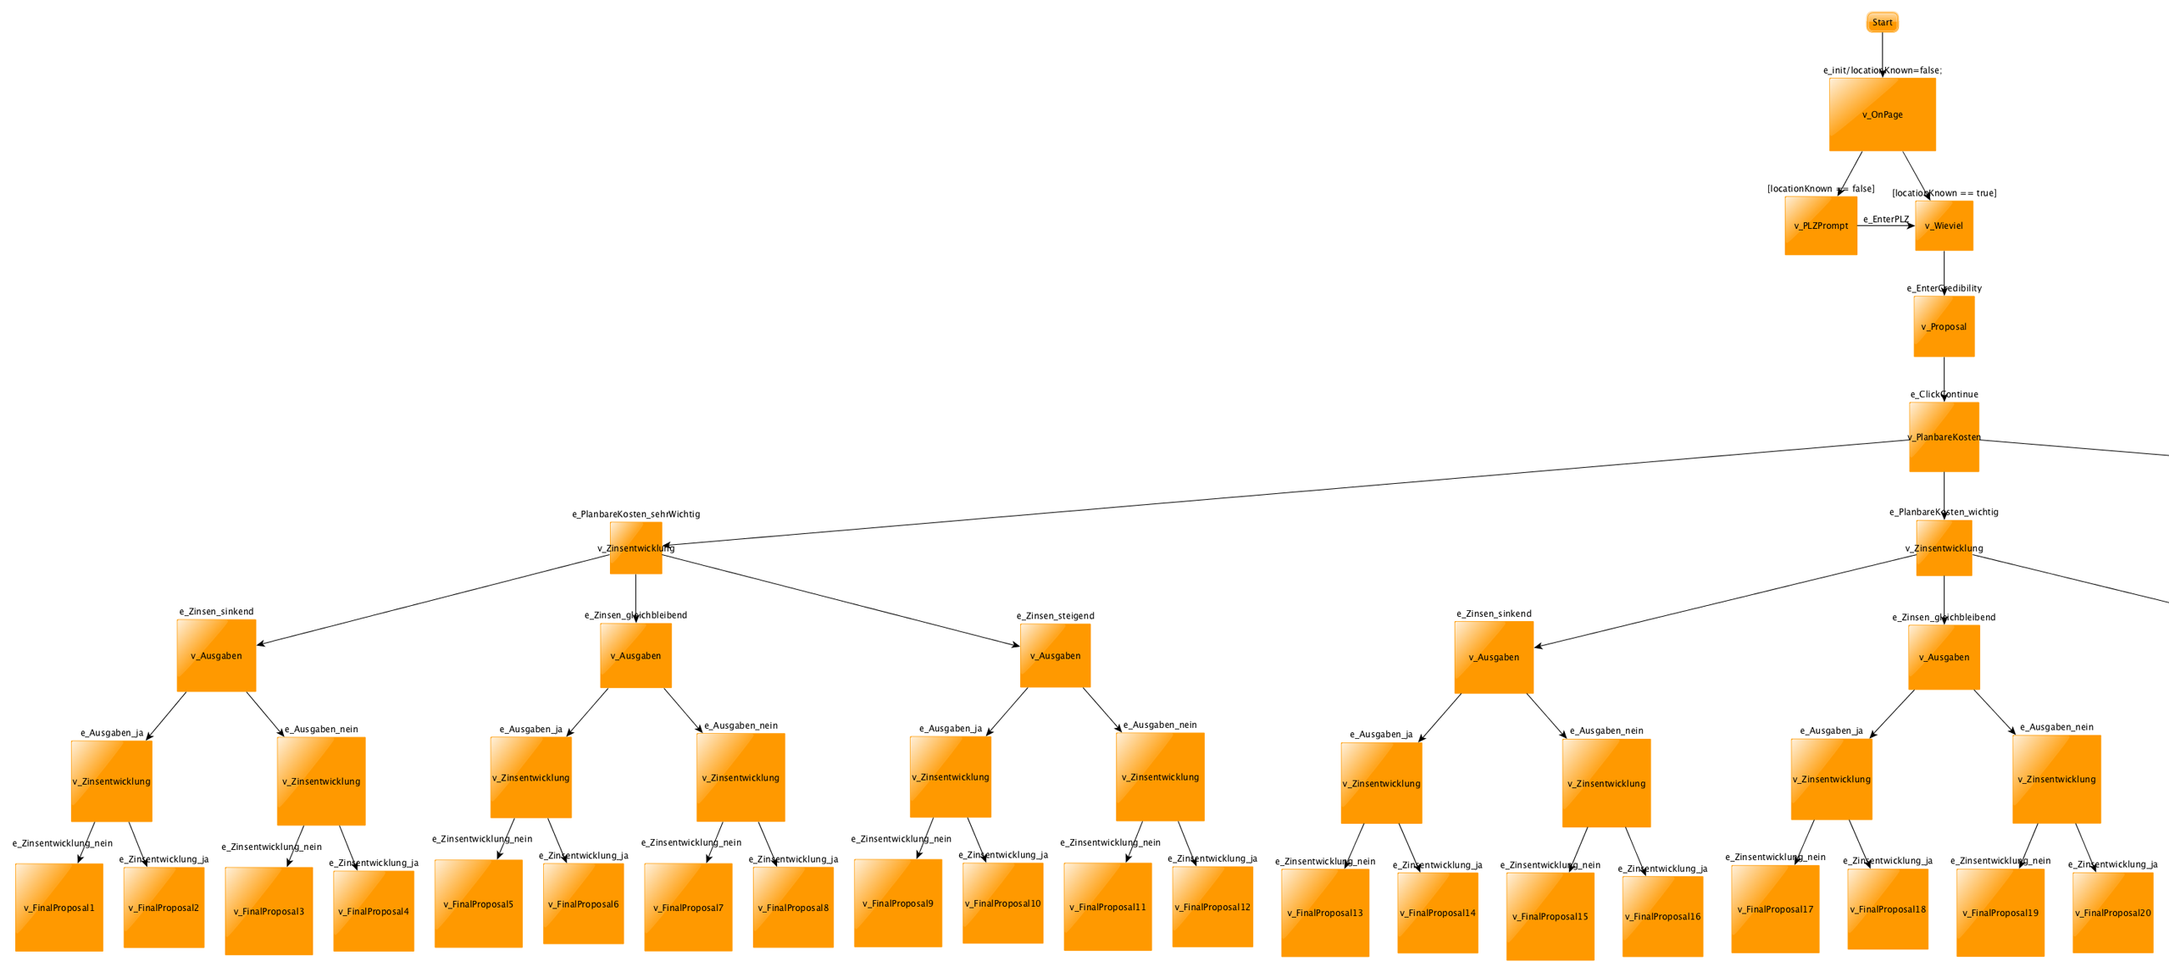
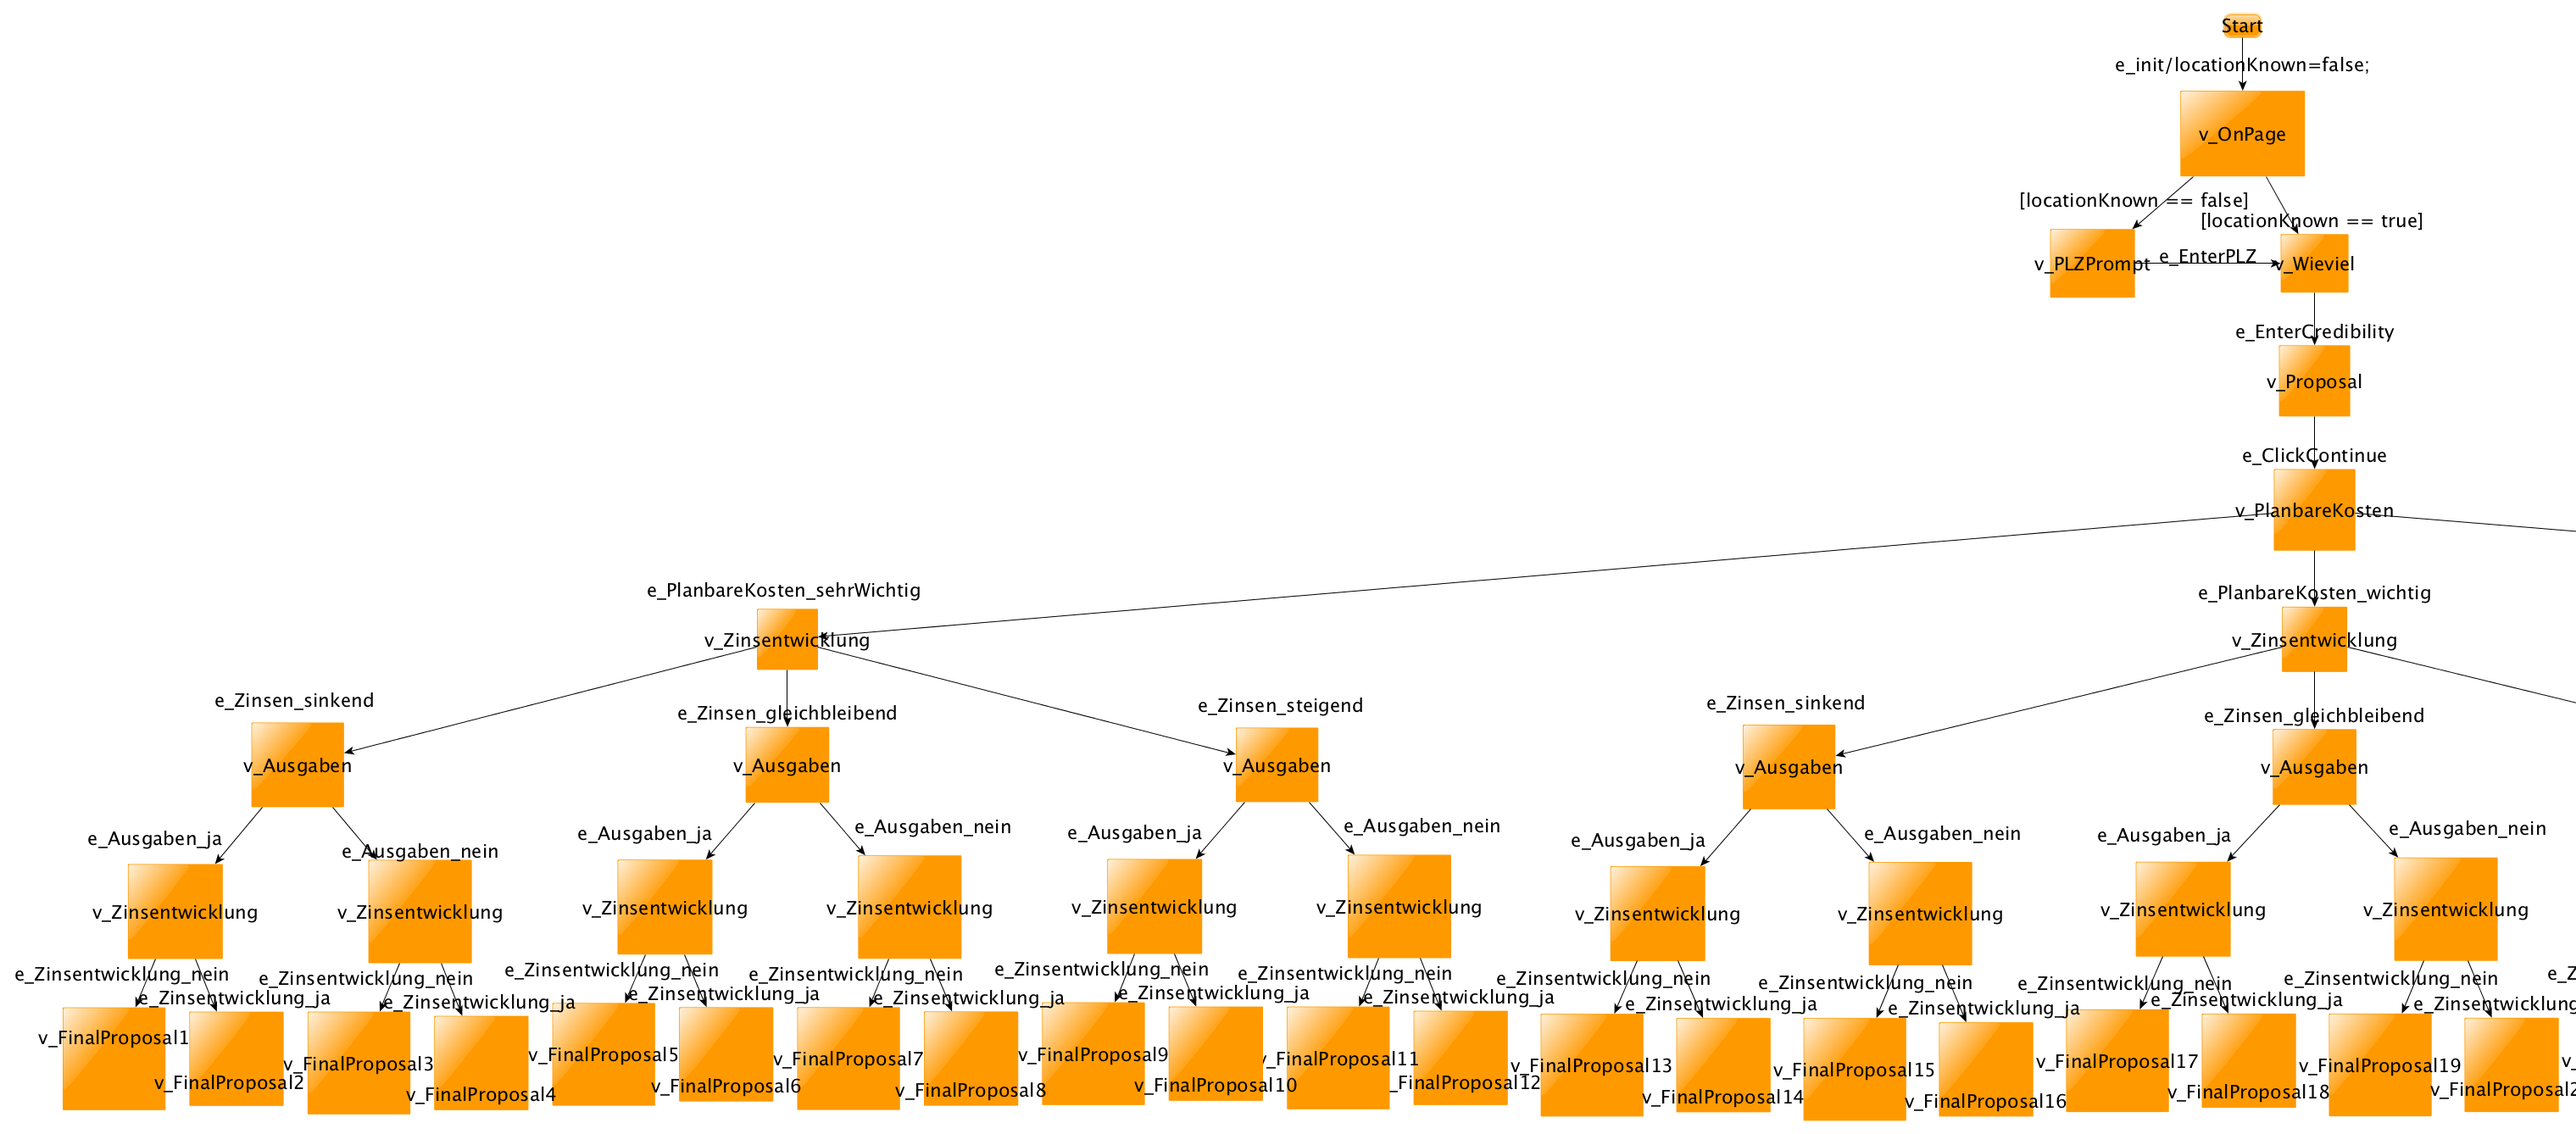
Größere Schrift auf allen Grafiken in Kapitel 4

diff --git a/chapters/results.tex b/chapters/results.tex
@@ -184,8 +184,6 @@ Aus Sicht der Wartungsfreundlichkeit kann keine generelle Aussage getroffen werd
 Es fällt schnell auf, dass das Hinzufügen von nur wenigen Auswahlmöglichkeiten im Prinzip dasselbe aus dem \textit{Model Checking} bekannte Problem der kombinatorischen Zustandsexplosion aufwirft \cite{clarke_model_2012}. Verglichen mit den Ansätzen aus diesem Feld (wie \textit{Counterexample-guided abstraction refinement} \cite{clarke_counterexample-guided_2000}), bei denen eine Abstraktion verfeinert wird, geht man hier aus der anderen Richtung vor. Man betrachtet die Programmlogik auf Code-Ebene genauer und versucht Abstraktionen des komplexen Modells zu generieren. Bei numerischen Werten können zum Beispiel weniger Werte modelliert werden (Konzentration auf Grenz- und Extremwerte). Beim Beispiel des Hypothekarrechners stellte sich heraus, dass die zugrundeliegende Programmlogik gar keine 36 Ergebniskategorien erzeugen kann. Die beiden letzten der vier Fragen generieren also keine eigene Ergebniskategorie sondern \textit{schieben} das Ergebnis in eine der anderen Kategorien. Tatsächlich ergeben sich viel weniger Pfade als im ursprünglichen Modell und es bleiben nur 51 Knoten sowie 66 Kanten. Gezeigt wird diese vereinfachte Version des Modells in Abbildung \ref{fig:modell_logisch}. Gut zu sehen sind die Überschneidungen auf zweitletzter Ebene, die zu deutlich weniger Endzuständen und damit zu weniger Code führen.\\
 Durch eine verstärkte Whitebox-Ansicht muss der Modellierer also versuchen die Zustände und Übergänge im Modell zu verringern.
 
-\todo[color=blue]{Nur die zweite doppelseitige Grafik hat die vergrößerte Schriftgröße. Die andere doppelseitige Grafik wird noch nachgereicht.}
-
 % \begin{figure}[h] 
 %   \centering
 %      \includegraphics[width=1.5\textwidth, angle=90]{figures/modell_logisch.png}
